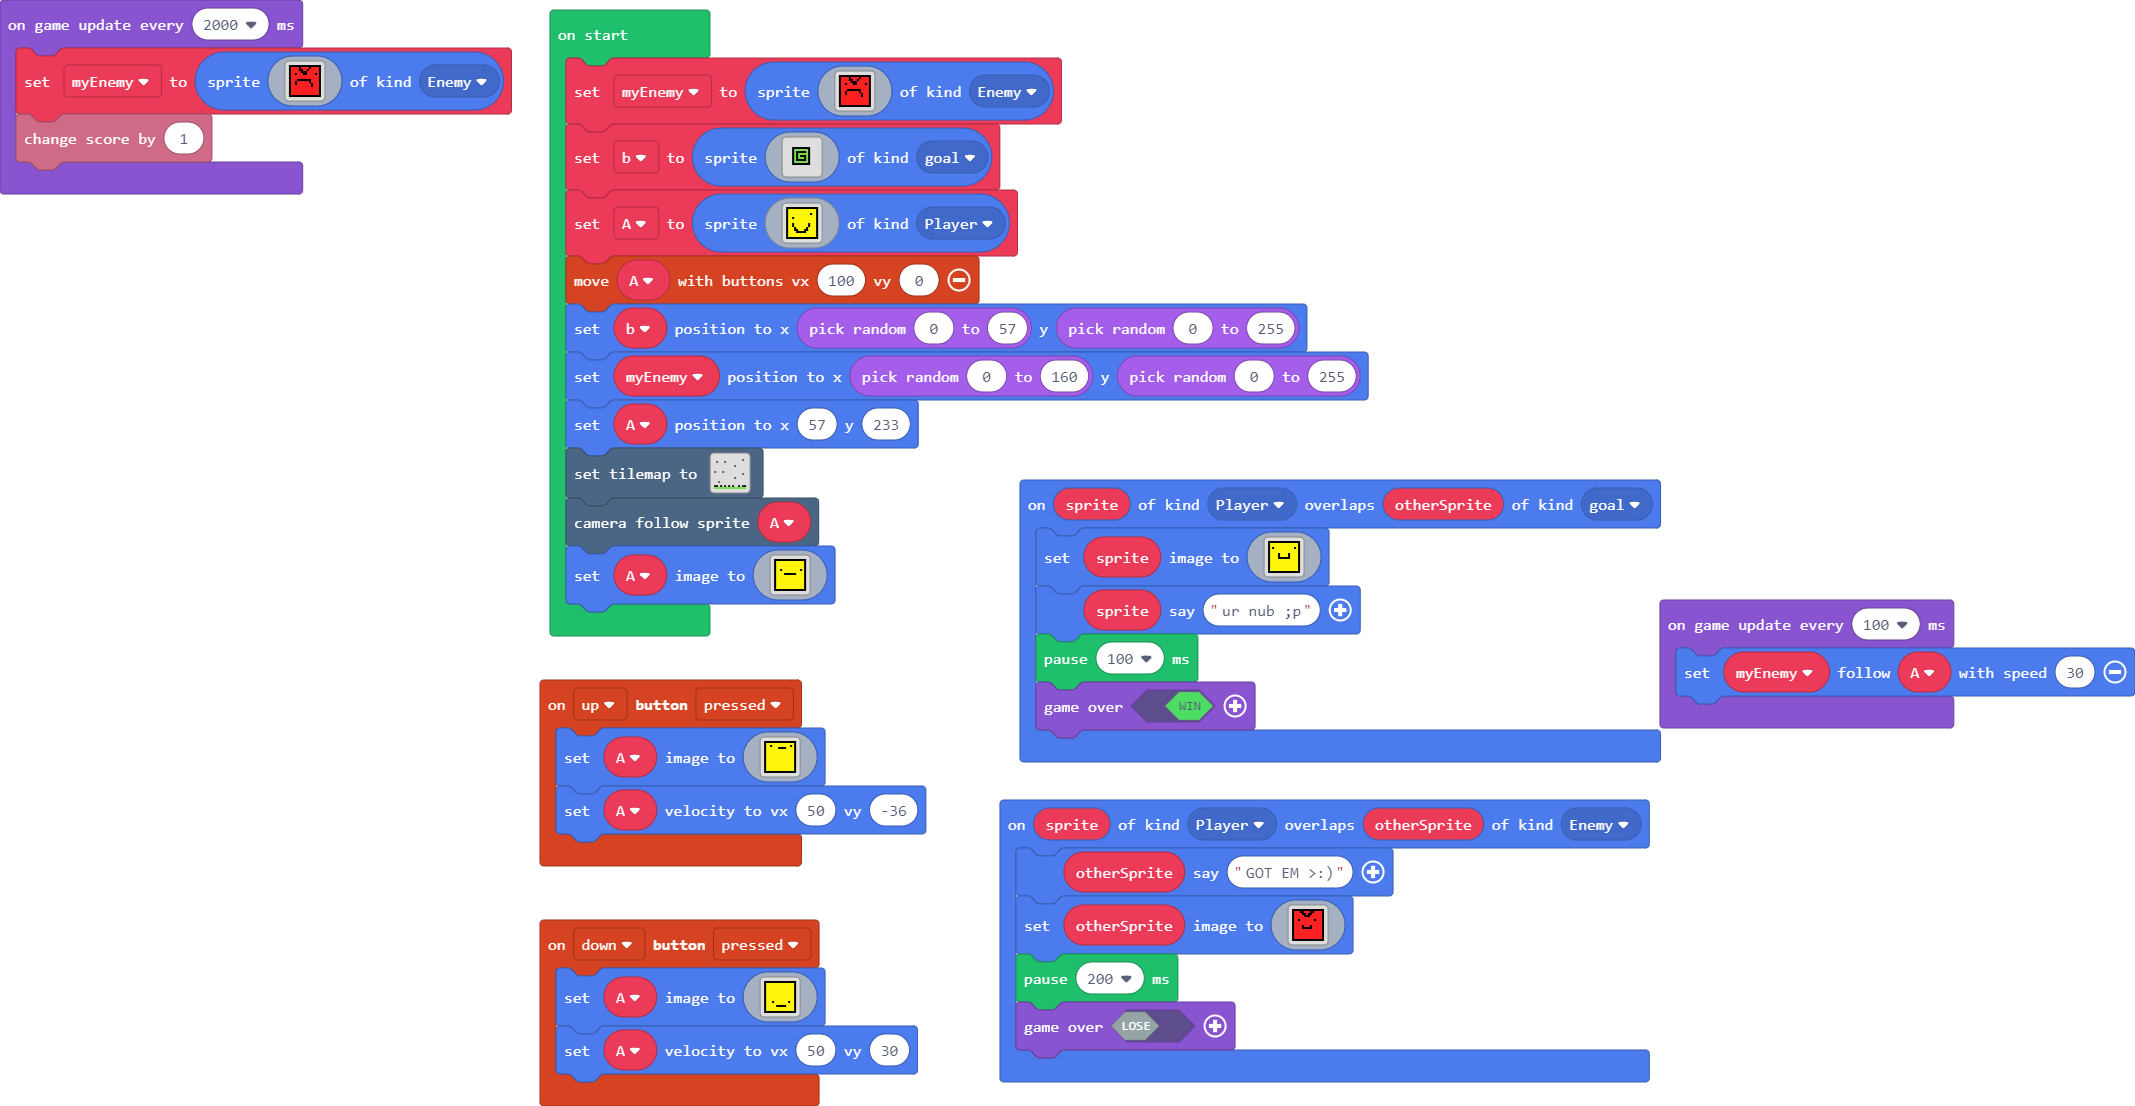
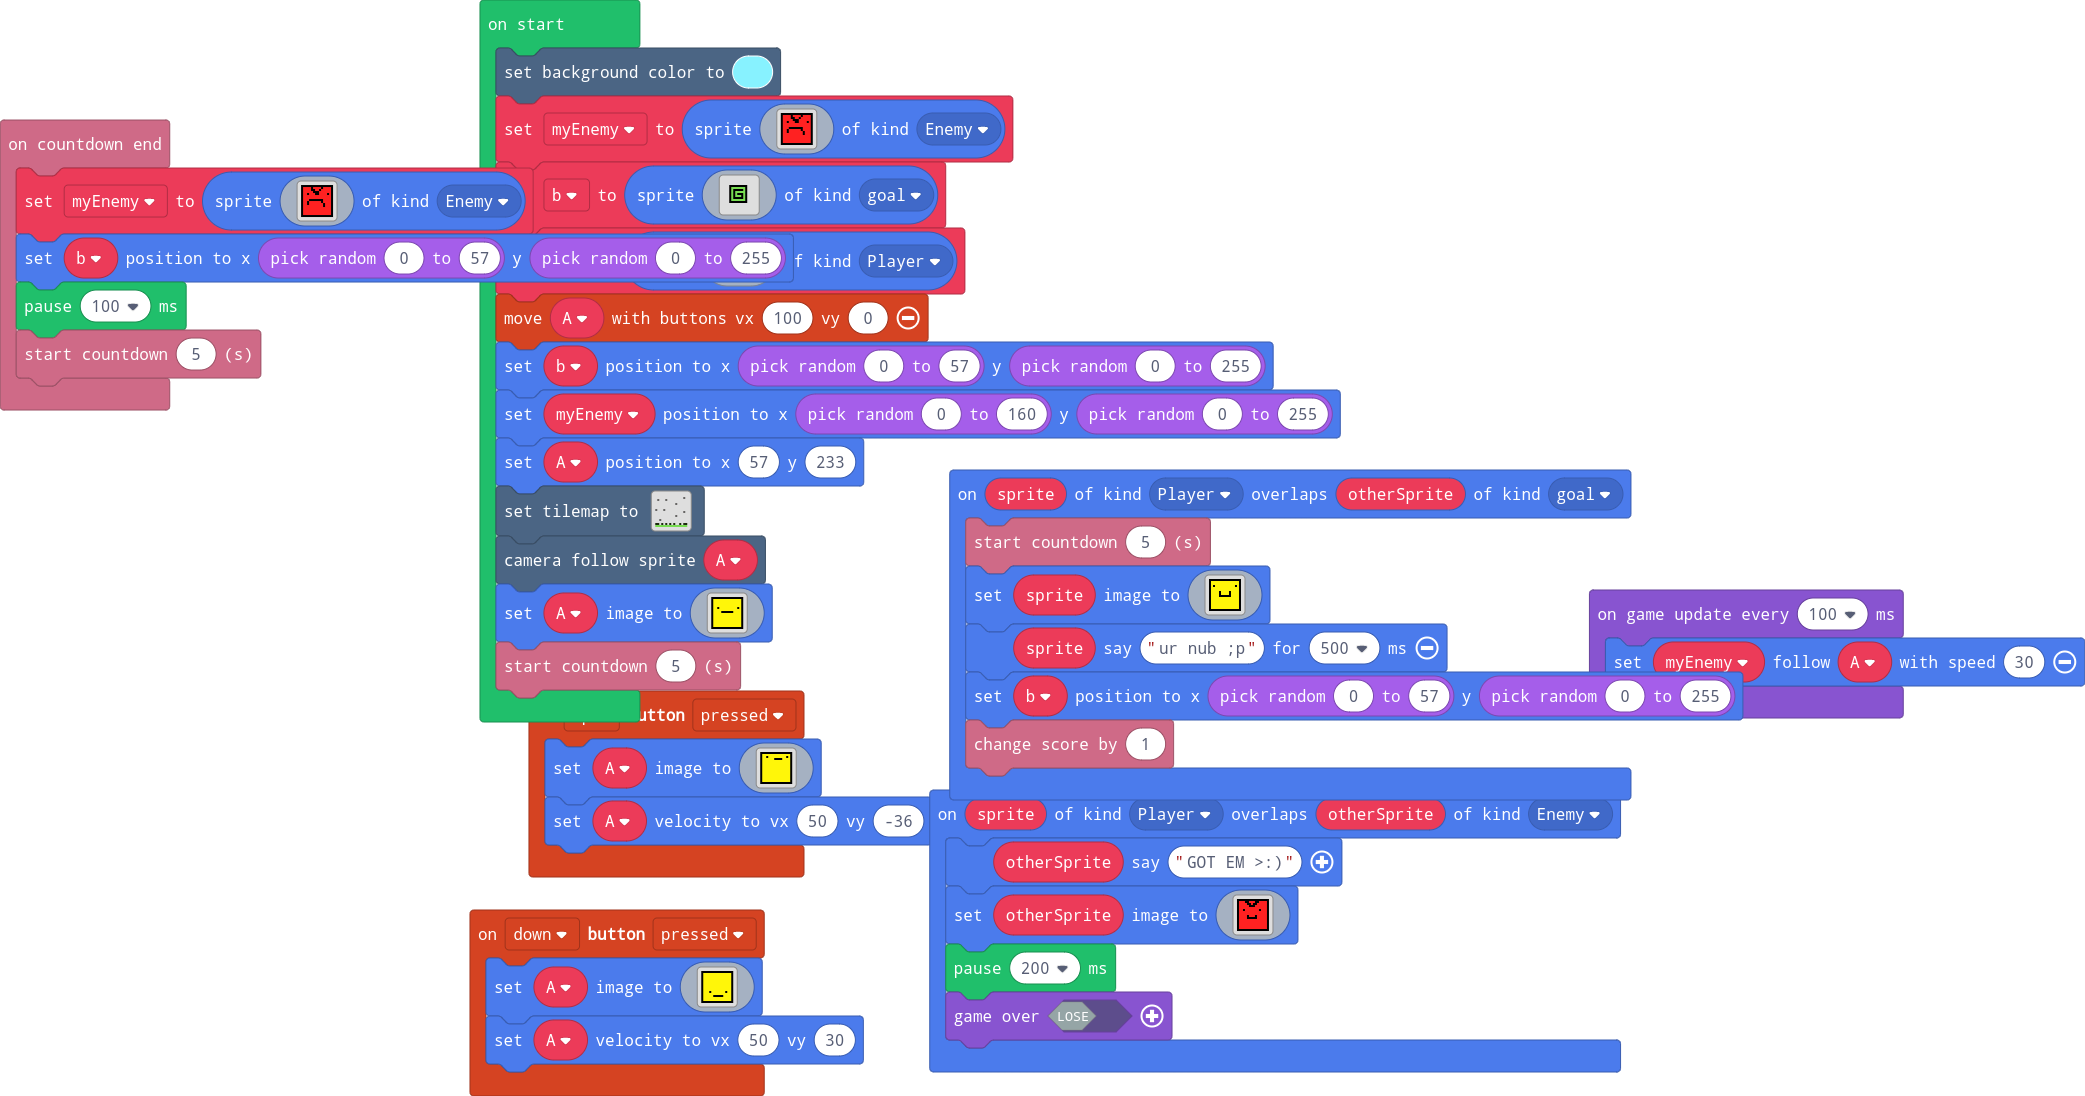
Infinite single player!!!

diff --git a/main.ts b/main.ts
@@ -162,6 +162,29 @@ f f f f f f f f f f f f f f f f
     pause(200)
     game.over(false)
 })
+info.onCountdownEnd(function () {
+    myEnemy = sprites.create(img`
+f f f f f f f f f f f f f f f f 
+f 2 2 2 2 f 2 2 2 2 f 2 2 2 2 f 
+f 2 2 2 2 f f 2 2 f 2 2 2 2 2 f 
+f 2 2 2 2 2 f f f 2 2 2 2 2 2 f 
+f 2 2 f 2 2 2 f f 2 2 2 2 f 2 f 
+f 2 2 2 2 2 2 2 2 2 2 2 2 2 2 f 
+f 2 2 2 2 2 2 2 2 2 2 2 2 2 2 f 
+f 2 2 2 f f f f f f f 2 2 2 2 f 
+f 2 2 f 2 2 2 2 2 2 f 2 2 2 2 f 
+f 2 2 f 2 2 2 2 2 2 2 f 2 2 2 f 
+f 2 2 2 2 2 2 2 2 2 2 f 2 2 2 f 
+f 2 2 2 2 2 2 2 2 2 2 2 2 2 2 f 
+f 2 2 2 2 2 2 2 2 2 2 2 2 2 2 f 
+f 2 2 2 2 2 2 2 2 2 2 2 2 2 2 f 
+f 2 2 2 2 2 2 2 2 2 2 2 2 2 2 f 
+f f f f f f f f f f f f f f f f 
+`, SpriteKind.Enemy)
+    b.setPosition(Math.randomRange(0, 57), Math.randomRange(0, 255))
+    pause(100)
+    info.startCountdown(5)
+})
 controller.up.onEvent(ControllerButtonEvent.Pressed, function () {
     A.setImage(img`
 f f f f f f f f f f f f f f f f 
@@ -184,6 +207,7 @@ f f f f f f f f f f f f f f f f
     A.setVelocity(50, -36)
 })
 sprites.onOverlap(SpriteKind.Player, SpriteKind.goal, function (sprite, otherSprite) {
+    info.startCountdown(5)
     sprite.setImage(img`
 f f f f f f f f f f f f f f f f 
 f 5 5 5 5 5 5 5 5 5 5 5 5 5 5 f 
@@ -202,12 +226,15 @@ f 5 5 5 5 5 5 5 5 5 5 5 5 5 5 f
 f 5 5 5 5 5 5 5 5 5 5 5 5 5 5 f 
 f f f f f f f f f f f f f f f f 
 `)
-    sprite.say("ur nub ;p")
-    pause(100)
-    game.over(true)
+    sprite.say("ur nub ;p", 500)
+    b.setPosition(Math.randomRange(0, 57), Math.randomRange(0, 255))
+    info.changeScoreBy(1)
 })
 let A: Sprite = null
-let myEnemy = sprites.create(img`
+let b: Sprite = null
+let myEnemy: Sprite = null
+scene.setBackgroundColor(9)
+myEnemy = sprites.create(img`
 f f f f f f f f f f f f f f f f 
 f 2 2 2 2 f 2 2 2 2 f 2 2 2 2 f 
 f 2 2 2 2 f f 2 2 f 2 2 2 2 2 f 
@@ -225,7 +252,7 @@ f 2 2 2 2 2 2 2 2 2 2 2 2 2 2 f
 f 2 2 2 2 2 2 2 2 2 2 2 2 2 2 f 
 f f f f f f f f f f f f f f f f 
 `, SpriteKind.Enemy)
-let b = sprites.create(img`
+b = sprites.create(img`
 . . . . . . . . . . . . . . . . 
 . . . . . . . . . . . . . . . . 
 . . . . . . . . . . . . . . . . 
@@ -307,27 +334,7 @@ f 5 5 5 5 5 5 5 5 5 5 5 5 5 5 f
 f 5 5 5 5 5 5 5 5 5 5 5 5 5 5 f 
 f f f f f f f f f f f f f f f f 
 `)
+info.startCountdown(5)
 game.onUpdateInterval(100, function () {
     myEnemy.follow(A, 30)
-})
-game.onUpdateInterval(2000, function () {
-    myEnemy = sprites.create(img`
-f f f f f f f f f f f f f f f f 
-f 2 2 2 2 f 2 2 2 2 f 2 2 2 2 f 
-f 2 2 2 2 f f 2 2 f 2 2 2 2 2 f 
-f 2 2 2 2 2 f f f 2 2 2 2 2 2 f 
-f 2 2 f 2 2 2 f f 2 2 2 2 f 2 f 
-f 2 2 2 2 2 2 2 2 2 2 2 2 2 2 f 
-f 2 2 2 2 2 2 2 2 2 2 2 2 2 2 f 
-f 2 2 2 f f f f f f f 2 2 2 2 f 
-f 2 2 f 2 2 2 2 2 2 f 2 2 2 2 f 
-f 2 2 f 2 2 2 2 2 2 2 f 2 2 2 f 
-f 2 2 2 2 2 2 2 2 2 2 f 2 2 2 f 
-f 2 2 2 2 2 2 2 2 2 2 2 2 2 2 f 
-f 2 2 2 2 2 2 2 2 2 2 2 2 2 2 f 
-f 2 2 2 2 2 2 2 2 2 2 2 2 2 2 f 
-f 2 2 2 2 2 2 2 2 2 2 2 2 2 2 f 
-f f f f f f f f f f f f f f f f 
-`, SpriteKind.Enemy)
-    info.changeScoreBy(1)
 })
